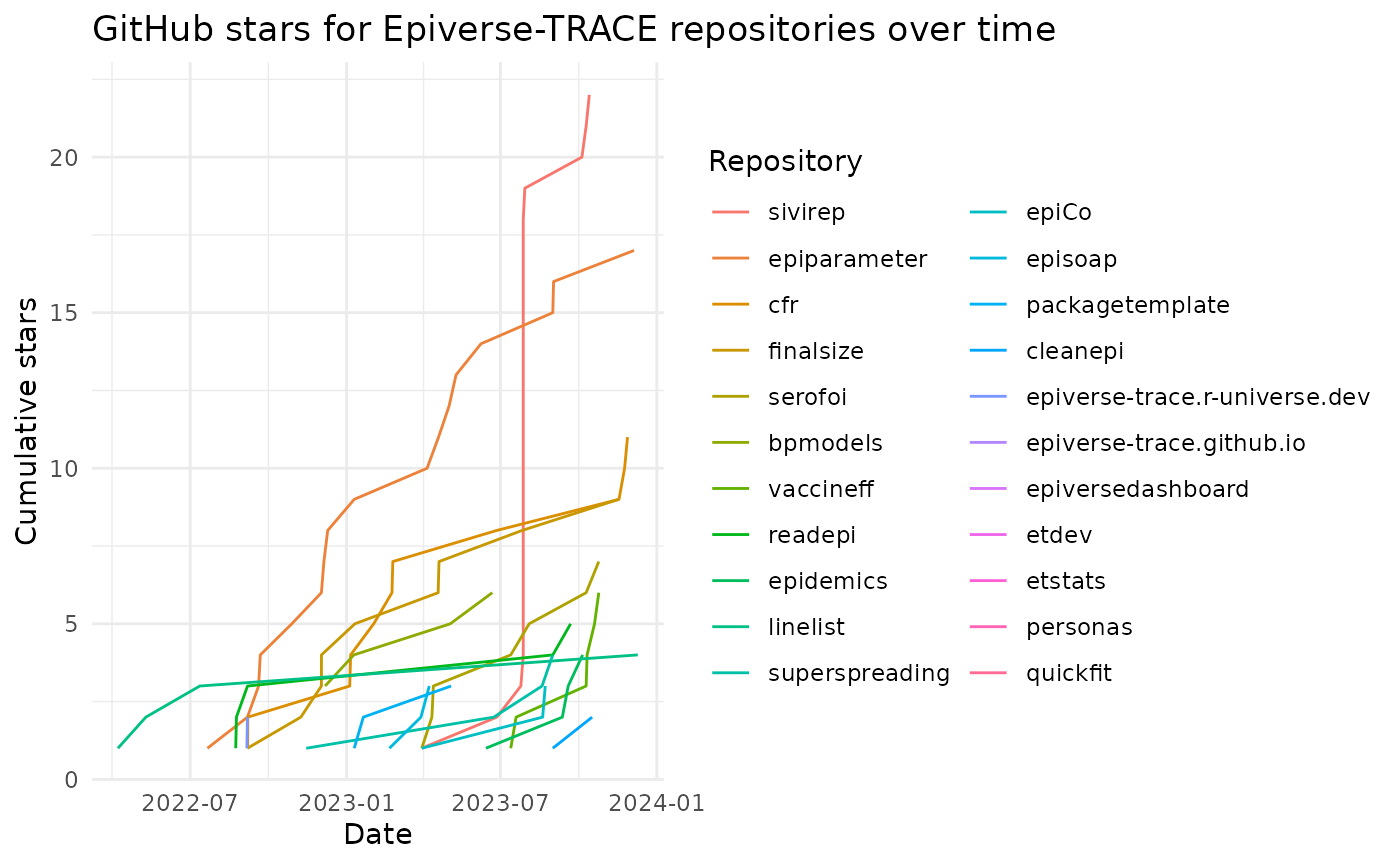
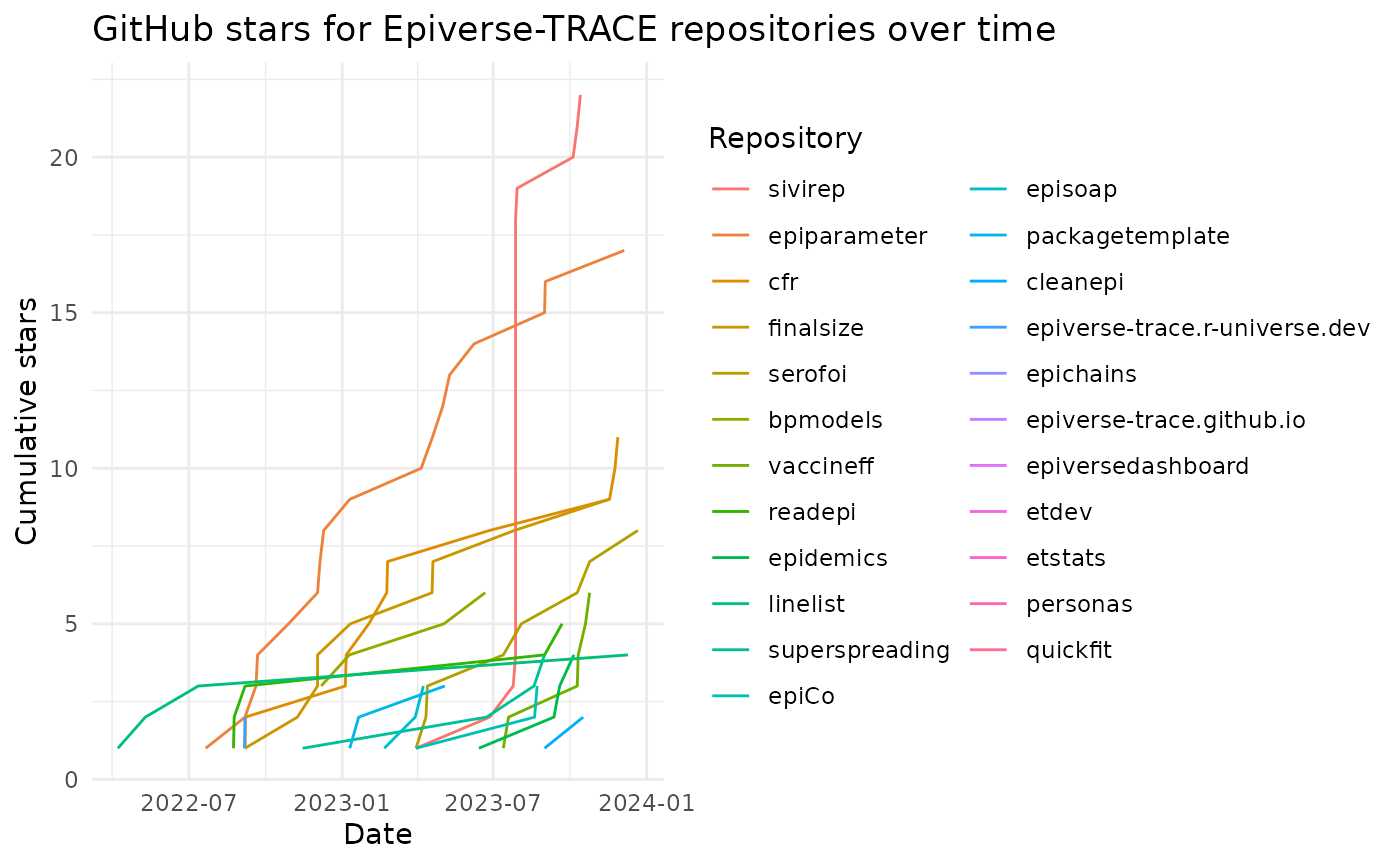
Deploying to gh-pages from @ epiverse-trace/etstats@4b5344e8bd29eeb4931977ff53f21d9d659bfce1 🚀

diff --git a/articles/github-statistics.html b/articles/github-statistics.html
@@ -79,7 +79,7 @@
   <main id="main" class="col-md-9"><div class="page-header">
       <img src="" class="logo" alt=""><h1>GitHub statistics</h1>
             
-            <h4 data-toc-skip class="date">2023-12-11</h4>
+            <h4 data-toc-skip class="date">2024-01-01</h4>
       
       <small class="dont-index">Source: <a href="https://github.com/epiverse-trace/etstats/blob/HEAD/vignettes/github-statistics.Rmd" class="external-link"><code>vignettes/github-statistics.Rmd</code></a></small>
       <div class="d-none name"><code>github-statistics.Rmd</code></div>
@@ -93,8 +93,8 @@
 <div class="section level3">
 <h3 id="totals">Totals<a class="anchor" aria-label="anchor" href="#totals"></a>
 </h3>
-<p>In total, we have 114 stars across all Epiverse-TRACE packages. These
-stars come from 74 unique users.</p>
+<p>In total, we have 116 stars across all Epiverse-TRACE packages. These
+stars come from 75 unique users.</p>
 <p><img src="github-statistics_files/figure-html/unnamed-chunk-4-1.png" width="700"></p>
 </div>
 <div class="section level3">
@@ -164,64 +164,69 @@ stars come from 74 unique users.</p>
 <td align="right">3</td>
 </tr>
 <tr class="even">
+<td align="left">epichains</td>
+<td align="right">0</td>
+<td align="right">1</td>
+</tr>
+<tr class="odd">
 <td align="left">epidemics</td>
 <td align="right">0</td>
 <td align="right">4</td>
 </tr>
-<tr class="odd">
+<tr class="even">
 <td align="left">episoap</td>
 <td align="right">0</td>
 <td align="right">3</td>
 </tr>
-<tr class="even">
+<tr class="odd">
 <td align="left">epiverse-trace.github.io</td>
 <td align="right">0</td>
 <td align="right">1</td>
 </tr>
-<tr class="odd">
+<tr class="even">
 <td align="left">etdev</td>
 <td align="right">0</td>
 <td align="right">1</td>
 </tr>
-<tr class="even">
+<tr class="odd">
 <td align="left">etstats</td>
 <td align="right">0</td>
 <td align="right">1</td>
 </tr>
-<tr class="odd">
+<tr class="even">
 <td align="left">packagetemplate</td>
 <td align="right">0</td>
 <td align="right">3</td>
 </tr>
-<tr class="even">
+<tr class="odd">
 <td align="left">personas</td>
 <td align="right">0</td>
 <td align="right">1</td>
 </tr>
-<tr class="odd">
+<tr class="even">
 <td align="left">quickfit</td>
 <td align="right">0</td>
 <td align="right">1</td>
 </tr>
-<tr class="even">
+<tr class="odd">
 <td align="left">serofoi</td>
 <td align="right">0</td>
-<td align="right">7</td>
+<td align="right">8</td>
 </tr>
-<tr class="odd">
+<tr class="even">
 <td align="left">sivirep</td>
 <td align="right">0</td>
 <td align="right">22</td>
 </tr>
-<tr class="even">
+<tr class="odd">
 <td align="left">vaccineff</td>
 <td align="right">0</td>
 <td align="right">6</td>
 </tr>
-<tr class="odd">
+<tr class="even">
 <td align="left">Total</td>
 <td align="right">25</td>
-<td align="right">87</td>
+<td align="right">89</td>
 </tr>
 </tbody>
 </table>

diff --git a/articles/cran-statistics.html b/articles/cran-statistics.html
@@ -79,7 +79,7 @@
   <main id="main" class="col-md-9"><div class="page-header">
       <img src="" class="logo" alt=""><h1>CRAN statistics</h1>
             
-            <h4 data-toc-skip class="date">2023-12-11</h4>
+            <h4 data-toc-skip class="date">2024-01-01</h4>
       
       <small class="dont-index">Source: <a href="https://github.com/epiverse-trace/etstats/blob/HEAD/vignettes/cran-statistics.Rmd" class="external-link"><code>vignettes/cran-statistics.Rmd</code></a></small>
       <div class="d-none name"><code>cran-statistics.Rmd</code></div>
@@ -89,15 +89,15 @@
     
 <p>We currently have 3 Epiverse-TRACE packages on CRAN:</p>
 <ul>
+<li><a href="https://cran.r-project.org/package=linelist" class="external-link">linelist</a></li>
 <li><a href="https://cran.r-project.org/package=cfr" class="external-link">cfr</a></li>
 <li><a href="https://cran.r-project.org/package=finalsize" class="external-link">finalsize</a></li>
-<li><a href="https://cran.r-project.org/package=linelist" class="external-link">linelist</a></li>
 </ul>
-<p>In total, Epiverse-TRACE packages on CRAN have been downloaded 11526
+<p>In total, Epiverse-TRACE packages on CRAN have been downloaded 12090
 times.</p>
 <p>Below is a visualization of the breakdown of this grand total by
 package over time.</p>
-<p><img src="cran-statistics_files/figure-html/unnamed-chunk-6-1.png" alt="Cumulative downloads of Epiverse-TRACE on CRAN (cfr, finalsize, linelist)" width="700"></p>
+<p><img src="cran-statistics_files/figure-html/unnamed-chunk-6-1.png" alt="Cumulative downloads of Epiverse-TRACE on CRAN (linelist, cfr, finalsize)" width="700"></p>
 <table class="table">
 <thead><tr class="header">
 <th align="left">package</th>
@@ -108,22 +108,22 @@ package over time.</p>
 <tr class="odd">
 <td align="left">finalsize</td>
 <td align="right">260</td>
-<td align="right">2741</td>
+<td align="right">2875</td>
 </tr>
 <tr class="even">
 <td align="left">linelist</td>
 <td align="right">3712</td>
-<td align="right">4595</td>
+<td align="right">4886</td>
 </tr>
 <tr class="odd">
 <td align="left">cfr</td>
 <td align="right">NA</td>
-<td align="right">218</td>
+<td align="right">357</td>
 </tr>
 <tr class="even">
 <td align="left">Total</td>
 <td align="right">3972</td>
-<td align="right">7554</td>
+<td align="right">8118</td>
 </tr>
 </tbody>
 </table></main>

diff --git a/authors.html b/authors.html
@@ -68,14 +68,14 @@
       <h2 id="citation">Citation</h2>
       <p><small class="dont-index">Source: <a href="https://github.com/epiverse-trace/etstats/blob/HEAD/DESCRIPTION" class="external-link"><code>DESCRIPTION</code></a></small></p>
 
-      <p>Gruson H (2023).
+      <p>Gruson H (2024).
 <em>etstats: Collect and Save Analytics of 'Epiverse-TRACE' Packages</em>.
 R package version 0.0.0.9000, <a href="https://github.com/epiverse-trace/etstats" class="external-link">https://github.com/epiverse-trace/etstats</a>. 
 </p>
       <pre>@Manual{,
   title = {etstats: Collect and Save Analytics of 'Epiverse-TRACE' Packages},
   author = {Hugo Gruson},
-  year = {2023},
+  year = {2024},
   note = {R package version 0.0.0.9000},
   url = {https://github.com/epiverse-trace/etstats},
 }</pre>
